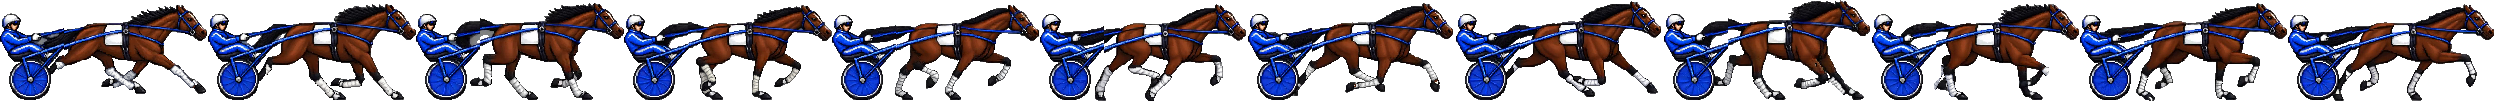
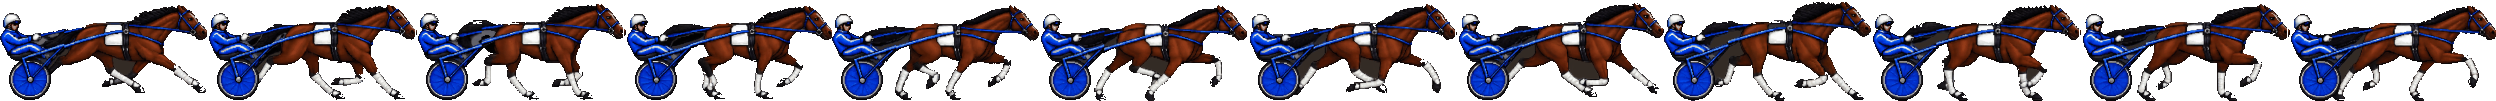
Deploy 2026-10-30 17:38

Changed region(s): [[0.0, 0.0, 1.0, 1.0], [0.125, 0.0594, 0.1562, 0.0891]]

diff --git a/mockups/replay_hd2d.html b/mockups/replay_hd2d.html
@@ -663,7 +663,7 @@ const cycleLoaded = new Promise(r => { const i = new Image(); i.onload = () => {
 const WRAPS_OK = !RIG && !PAINTED;                                    // the race data may not be in yet: load the sheet, pick per horse later
 let wrapImg = null, wrapMask = null, wrapMeta = { frames: FR, cols: FR };    // the wrapped sheet's own frame count and row width (wraps12.json)
 const wrapMetaLoaded = WRAPS_OK ? fetch(P("/mock/pixel/tack/wraps12.json?v=" + Date.now())).then(r => r.ok ? r.json() : null).then(j => { if (j && j.frames) wrapMeta = { frames: j.frames, cols: j.cols || j.frames }; }).catch(() => {}) : Promise.resolve();
-const wrapLoaded = WRAPS_OK ? Promise.all(["wraps12", "wraps12_mask"].map(n => new Promise(r => { const i = new Image(); i.onload = () => { if (n === "wraps12") wrapImg = i; else wrapMask = i; r(); }; i.onerror = r; i.src = P(`/mock/pixel/tack/${n}.png?v=10`); }))) : Promise.resolve();
+const wrapLoaded = WRAPS_OK ? Promise.all(["wraps12", "wraps12_mask"].map(n => new Promise(r => { const i = new Image(); i.onload = () => { if (n === "wraps12") wrapImg = i; else wrapMask = i; r(); }; i.onerror = r; i.src = P(`/mock/pixel/tack/${n}.png?v=12`); }))) : Promise.resolve();
 function wrapTint(c, hex) {
   if (!wrapMask) return c;
   if (!wrapTint.m) { const k = document.createElement("canvas"); k.width = wrapMask.width; k.height = wrapMask.height; const kg = k.getContext("2d"); kg.drawImage(wrapMask, 0, 0); wrapTint.m = kg.getImageData(0, 0, k.width, k.height).data; }

diff --git a/art/tack_layers/legwrap.py b/art/tack_layers/legwrap.py
@@ -7,7 +7,7 @@ import numpy as np
 from PIL import Image
 from overlay import base, zone, OUT, W, H, N
 
-LO = 4                  # the hoof: this many px up the leg from its tip stay bare
+LO, HI = 6, 21           # px up the leg from the hoof tip: hoof and pastern bare, top stops below the knee
 
 
 def walk(leg, seeds):
@@ -37,7 +37,7 @@ def legwrap(i):
     tips = leg & (dt >= 12) & (dt == near_max)                             # the far end of each leg: the hoof
     dh = walk(leg, tips)
     dark = rgb.sum(2) < 250                                               # the black stocking of the lower leg
-    band = leg & dark & (dh >= LO)                            # all of it, except the hoof at the tip
+    band = leg & dark & (dh >= LO) & (dh <= HI)                            # all of it, except the hoof at the tip
     lum = a[..., :3].astype(float).mean(2)
     inner = band & np.roll(band, 1, 0) & np.roll(band, -1, 0) & np.roll(band, 1, 1) & np.roll(band, -1, 1)
     edge = band & ~inner

diff --git a/art/tack_layers/overlay.py b/art/tack_layers/overlay.py
@@ -49,7 +49,8 @@ def extract(i, cand):
     diff = (np.abs(c[..., :3] - b[..., :3]).sum(2) > 30) | (c[..., 3] != b[..., 3])
     pale = (c[..., :3].sum(2) > 330) & (c[..., :3].max(2) - c[..., :3].min(2) < 50) & (c[..., 3] > 0)
     near = np.array(Image.fromarray(pale.astype(np.uint8) * 255).filter(ImageFilter.MaxFilter(3))) > 0   # the cloth and its 1-px border only
-    take = zone(base(i)) & diff & (c[..., 3] > 0) & near
+    grey = (c[..., :3].max(2) - c[..., :3].min(2)) < 60                 # wrap cloth and its border are never colorful (no fringe)
+    take = zone(base(i)) & diff & (c[..., 3] > 0) & near & grey
     o = np.zeros((H, W, 4), np.uint8); o[take] = c[take]; o[take, 3] = 255
     return Image.fromarray(o)
 

diff --git a/tack_art.py b/tack_art.py
@@ -90,7 +90,7 @@ def paint(pieces, cols, c1, c2):
 def render(pieces, cols, c1, c2):
     """The model's PNG at 3x, cached like the emblems; returns its path under /mock."""
     pieces = tuple(p for p in PIECES if p in pieces)
-    key = "tack|" + ",".join(pieces) + "|" + ",".join(f"{k}{v}" for k, v in sorted(cols.items())) + f"|{c1}|{c2}|v12"
+    key = "tack|" + ",".join(pieces) + "|" + ",".join(f"{k}{v}" for k, v in sorted(cols.items())) + f"|{c1}|{c2}|v14"
     name = hashlib.md5(key.encode()).hexdigest()[:12] + ".png"
     path = os.path.join(CACHE, name)
     if not os.path.exists(path):
